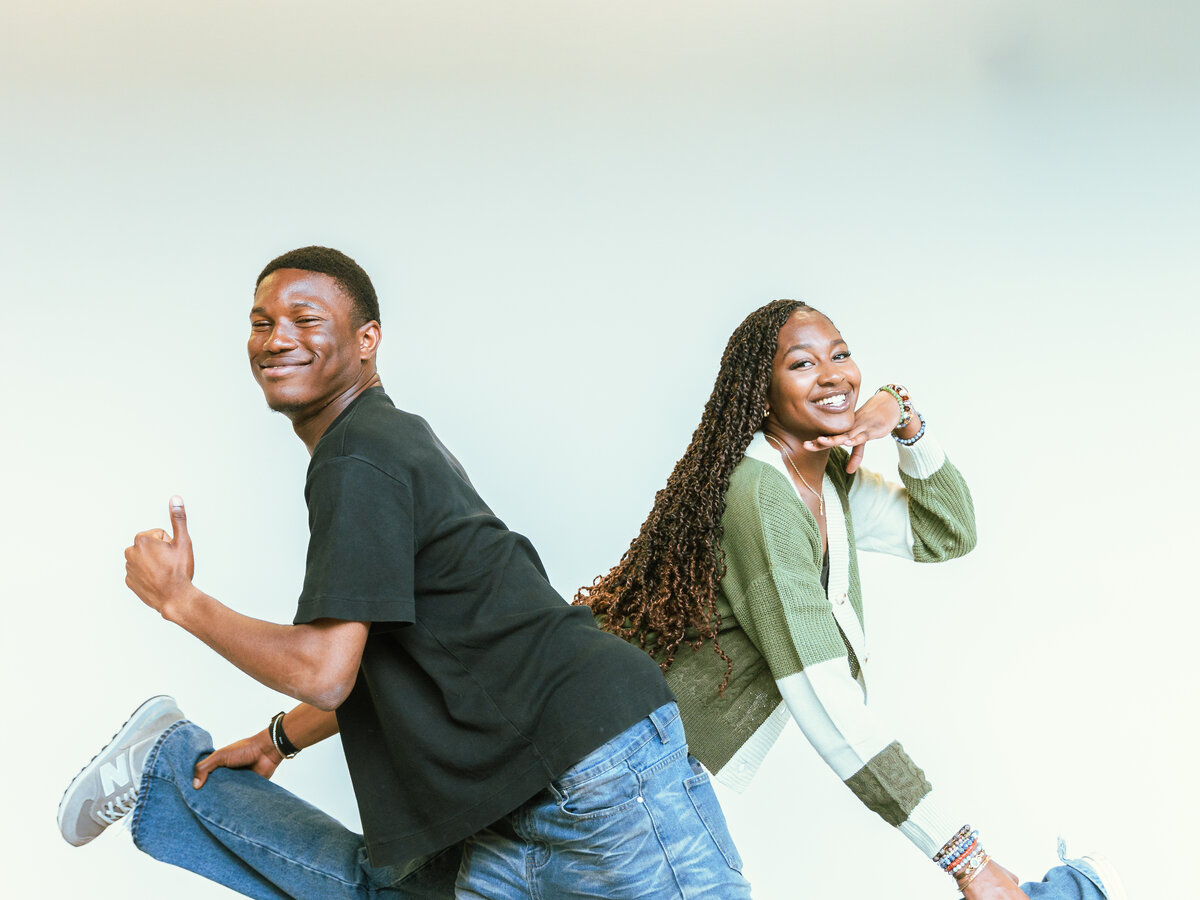
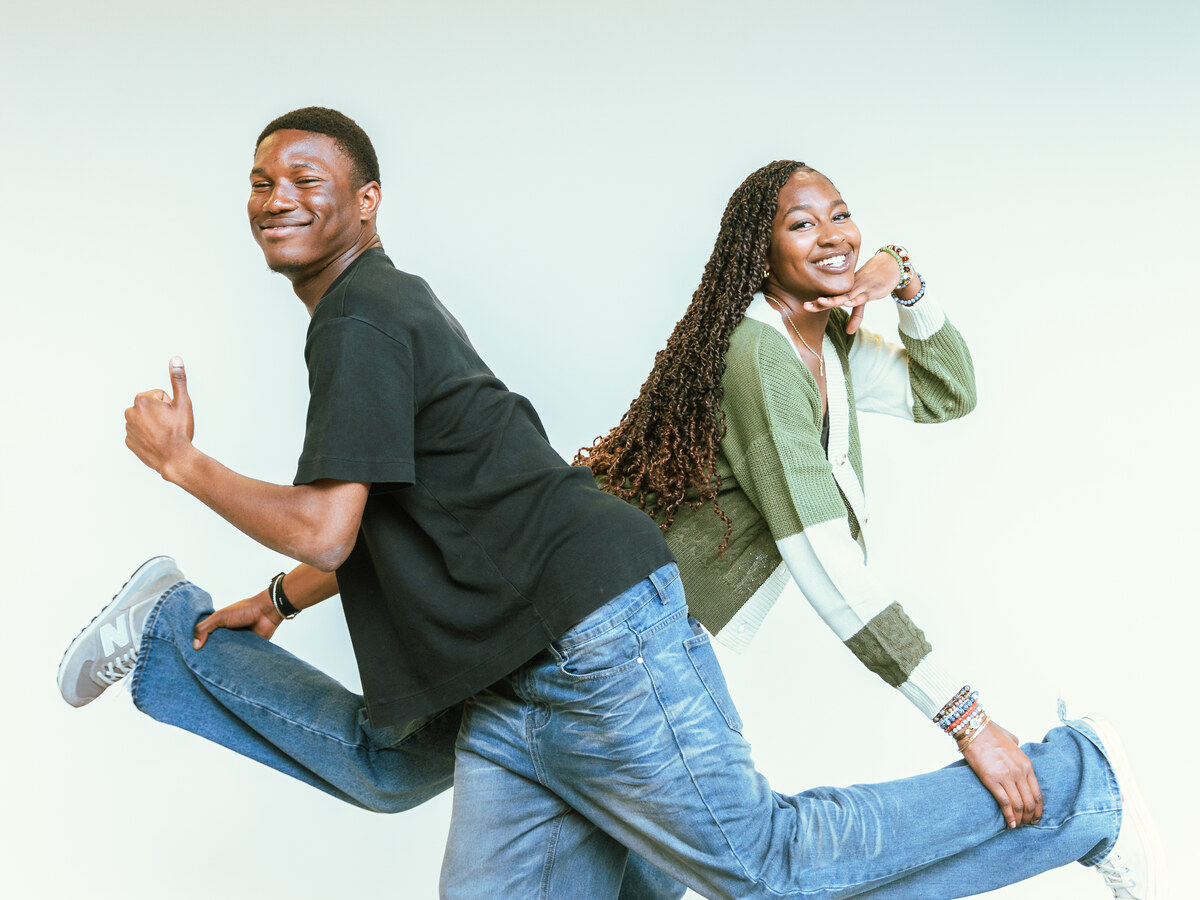
Adjust image to perfectly fit the content dimensions
Update the image cropping and positioning for the "Beyond an Agency" section to ensure it precisely fits the 4:3 aspect ratio of its container.

Replit-Commit-Author: Agent
Replit-Commit-Session-Id: acac2542-2926-4fbe-ad27-9ab896d16c5f
Replit-Commit-Checkpoint-Type: full_checkpoint
Replit-Commit-Event-Id: cffec5b5-63ca-4d3b-9213-1bb45f2fdcb9
Replit-Commit-Screenshot-Url: https://storage.googleapis.com/screenshot-production-us-central1/3bfb102d-d9ec-4479-933a-a1c2b5de625f/acac2542-2926-4fbe-ad27-9ab896d16c5f/OAC0r1V
Replit-Helium-Checkpoint-Created: true

diff --git a/src/pages/CommunityPage.tsx b/src/pages/CommunityPage.tsx
@@ -545,7 +545,7 @@ export function CommunityPage() {
                   src="/photo-beyond-agency.jpg"
                   alt="CREOVA — Beyond an Agency"
                   className="w-full h-full object-cover group-hover:scale-105 transition-transform duration-500"
-                  style={{ objectPosition: 'center 40%' }}
+                  style={{ objectPosition: 'center center' }}
                 />
                 <div className="absolute inset-0 bg-gradient-to-t from-black/80 via-black/20 to-transparent" />
                 <div className="absolute bottom-0 left-0 right-0 px-5 py-4">
